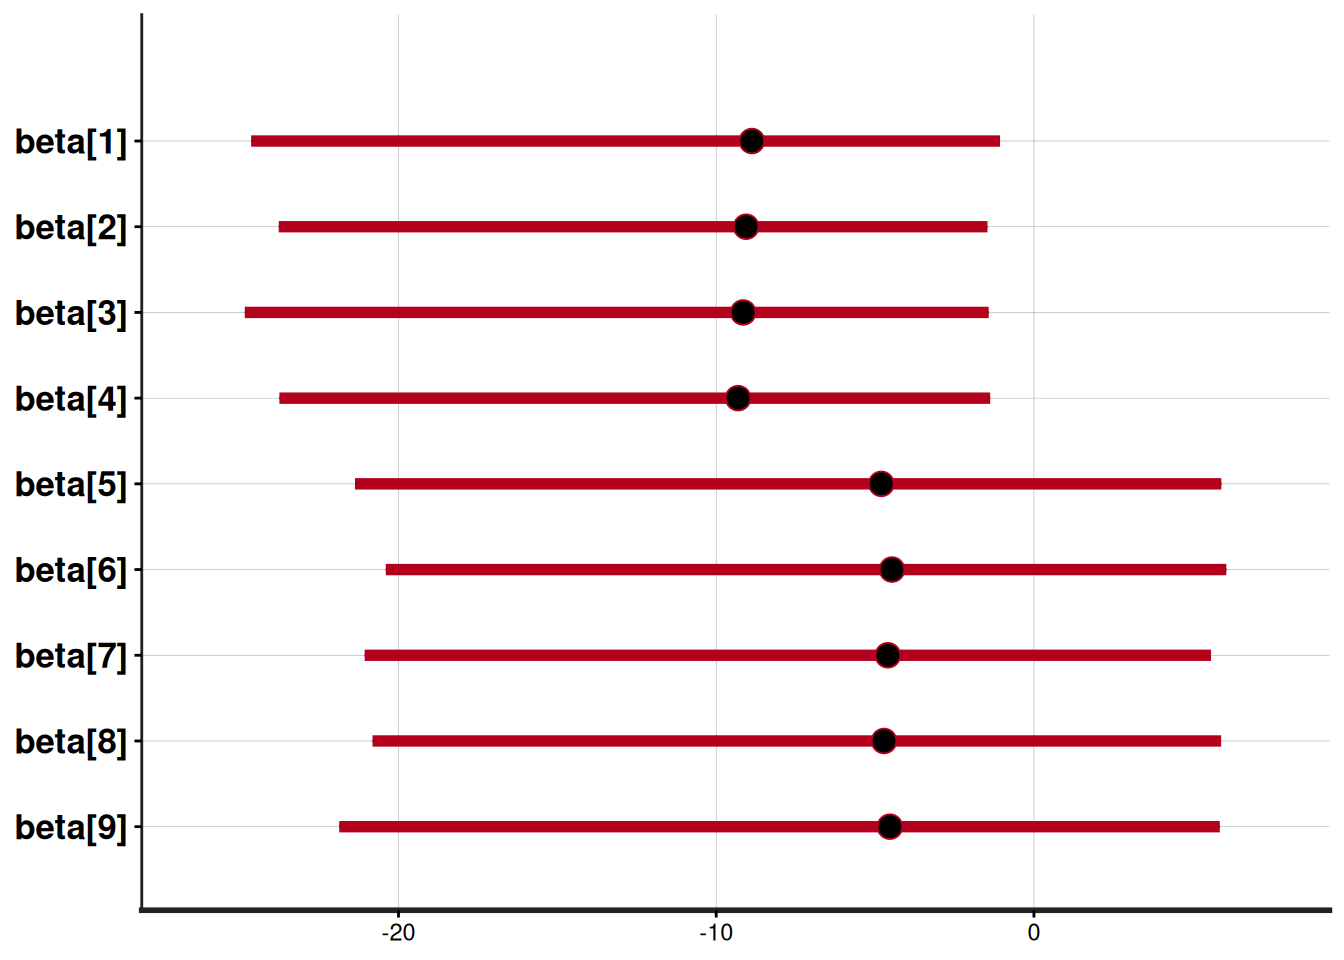
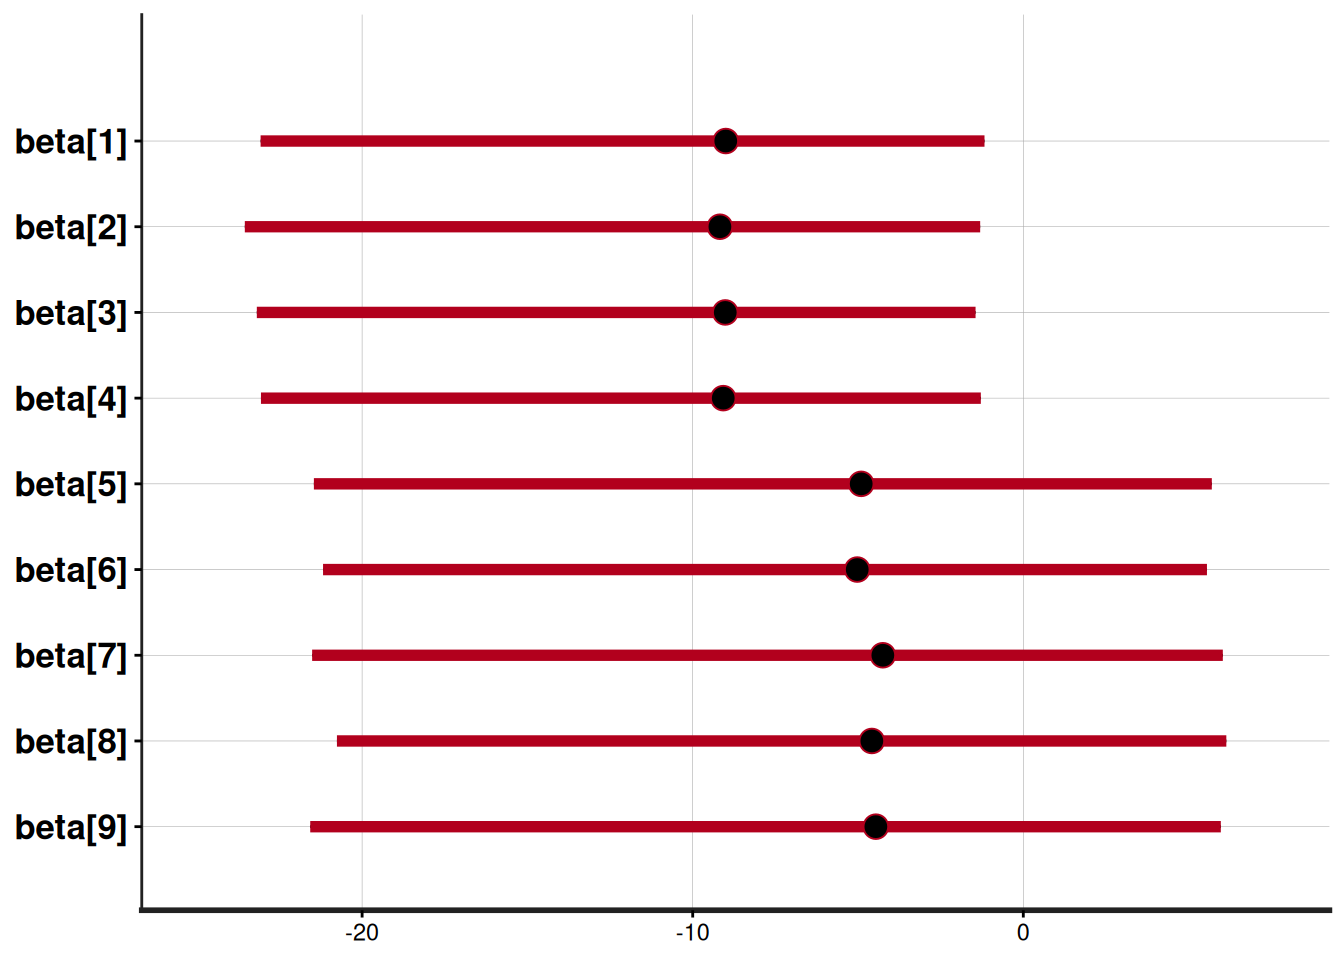
Built site for gh-pages

diff --git a/models.html b/models.html
@@ -254,6 +254,7 @@ window.Quarto = {
 </header>
 
 
+<p>Abaixo veremos alguns modelos analisados sob o paradigma subjetivista. Para economizar tempo, suprimimos análises exploratórias, mas reforçamos que essa etapa é indispensável para qualquer análise estatística.</p>
 <!--
 
 
@@ -495,7 +496,7 @@ fit_GLM = rstan::sampling(mod_GLM, data = data_GLM)
 <p>O modelo é especificado da seguinte forma:</p>
 <p><span class="math display">\[Y_i \sim \text{Poisson}(\mu_i)\]</span></p>
 <p><span class="math display">\[\log(\mu_i) = \log(n_i) + \beta_0 + \beta_{\text{idade}[i]} + \gamma_{\text{cidade}[i]}\]</span></p>
-<p>Para todos os coeficientes do preditor linear foram adotadas as prioris <span class="math inline">\(\beta_i \sim N(0,10)\)</span>.</p>
+<p>Para todos os coeficientes do preditor linear foi adotada a mesma priori vaga: <span class="math inline">\(\beta_i \sim N(0,10)\)</span>.</p>
 <div class="code-copy-outer-scaffold"><div class="sourceCode" id="cb2"><pre class="sourceCode stan code-with-copy"><code class="sourceCode stan"><span id="cb2-1"><a href="#cb2-1" aria-hidden="true" tabindex="-1"></a><span class="kw">data</span> {</span>
 <span id="cb2-2"><a href="#cb2-2" aria-hidden="true" tabindex="-1"></a>  <span class="dt">int</span>&lt;<span class="kw">lower</span>=<span class="dv">1</span>&gt; n;</span>
 <span id="cb2-3"><a href="#cb2-3" aria-hidden="true" tabindex="-1"></a>  <span class="dt">int</span>&lt;<span class="kw">lower</span>=<span class="dv">1</span>&gt; p;</span>
@@ -604,8 +605,8 @@ fit_GLM = rstan::sampling(mod_GLM, data = data_GLM)
 <pre><code>
 SAMPLING FOR MODEL 'GLM2' NOW (CHAIN 1).
 Chain 1: 
-Chain 1: Gradient evaluation took 6e-06 seconds
-Chain 1: 1000 transitions using 10 leapfrog steps per transition would take 0.06 seconds.
+Chain 1: Gradient evaluation took 7e-06 seconds
+Chain 1: 1000 transitions using 10 leapfrog steps per transition would take 0.07 seconds.
 Chain 1: Adjust your expectations accordingly!
 Chain 1: 
 Chain 1: 
@@ -618,12 +619,12 @@ Chain 1: Iteration: 1000 / 2000 [ 50%]  (Warmup)
 Chain 1: Iteration: 1001 / 2000 [ 50%]  (Sampling)</code></pre>
 </div>
 </div>
-<div class="cell">
+<div class="cell" data-layout-align="center">
 <div class="code-copy-outer-scaffold"><div class="sourceCode cell-code" id="cb6"><pre class="sourceCode r code-with-copy"><code class="sourceCode r"><span id="cb6-1"><a href="#cb6-1" aria-hidden="true" tabindex="-1"></a><span class="fu">plot</span>(fit_GLM2, <span class="at">pars =</span> <span class="st">"beta"</span>, <span class="at">ci_level =</span> <span class="fl">0.95</span>)</span></code></pre></div><button title="Copiar para a área de transferência" class="code-copy-button"><i class="bi"></i></button></div>
 <div class="cell-output-display">
-<div>
+<div class="quarto-figure quarto-figure-center">
 <figure class="figure">
-<p><img src="models_files/figure-html/unnamed-chunk-13-1.png" class="img-fluid figure-img" width="672"></p>
+<p><img src="models_files/figure-html/unnamed-chunk-13-1.png" class="img-fluid quarto-figure quarto-figure-center figure-img" style="width:60.0%"></p>
 </figure>
 </div>
 </div>
@@ -781,8 +782,8 @@ Chain 1: Iteration: 1001 / 2000 [ 50%]  (Sampling)</code></pre>
 <pre><code>
 SAMPLING FOR MODEL 'surv_weib' NOW (CHAIN 1).
 Chain 1: 
-Chain 1: Gradient evaluation took 1e-05 seconds
-Chain 1: 1000 transitions using 10 leapfrog steps per transition would take 0.1 seconds.
+Chain 1: Gradient evaluation took 1.1e-05 seconds
+Chain 1: 1000 transitions using 10 leapfrog steps per transition would take 0.11 seconds.
 Chain 1: Adjust your expectations accordingly!
 Chain 1: 
 Chain 1: 
@@ -840,25 +841,25 @@ $lp__
 <span id="cb15-20"><a href="#cb15-20" aria-hidden="true" tabindex="-1"></a><span class="fu">lapply</span>(resumo, head)</span></code></pre></div><button title="Copiar para a área de transferência" class="code-copy-button"><i class="bi"></i></button></div>
 <div class="cell-output cell-output-stdout">
 <pre><code>$alpha
-         media   mediana   hpd_min   hpd_max
-[1,] 0.3106649 0.3062019 0.2136963 0.4119273
+         media  mediana   hpd_min   hpd_max
+[1,] 0.3076674 0.303284 0.2146824 0.4189463
 
 $sigma
-        media  mediana hpd_min  hpd_max
-[1,] 198.6368 193.5185 92.2115 309.7272
+        media mediana  hpd_min  hpd_max
+[1,] 195.5883 189.809 91.63133 305.9038
 
 $S
          media   mediana   hpd_min   hpd_max
 [1,] 1.0000000 1.0000000 1.0000000 1.0000000
-[2,] 0.5791727 0.5756191 0.4716592 0.6881930
-[3,] 0.5092276 0.5055876 0.4108984 0.6045340
-[4,] 0.4656739 0.4626013 0.3774070 0.5533921
-[5,] 0.4338646 0.4310154 0.3624306 0.5237759
-[6,] 0.4088088 0.4059287 0.3434059 0.4926755
+[2,] 0.5757395 0.5729546 0.4756732 0.6937362
+[3,] 0.5062755 0.5028072 0.4109795 0.6031665
+[4,] 0.4630745 0.4595308 0.3771913 0.5498084
+[5,] 0.4315437 0.4278907 0.3551371 0.5127364
+[6,] 0.4067175 0.4033479 0.3356832 0.4818058
 
 $lp__
          media   mediana   hpd_min   hpd_max
-[1,] -465.8197 -465.4981 -467.9344 -464.8247</code></pre>
+[1,] -465.8611 -465.5799 -467.8909 -464.8251</code></pre>
 </div>
 </div>
 <div class="cell">
@@ -1054,7 +1055,7 @@ $lp__
 </div>
 </div>
 <p>Para a verossimilhança, assume-se que cada coluna de <span class="math inline">\(\varepsilon_{i,j} \sim N(0, \sigma^2_i)\)</span>, o que é equivalente a assumir que:</p>
-<p><span class="math display">\[X_{i,j} \sim \text{Normal}\bigr((\alpha\lambda)_{i,j},\ \sigma^2_i\bigr)\]</span>.</p>
+<p><span class="math display">\[X_{i,j} \sim \text{Normal}\bigr((\alpha\lambda)_{i,j},\ \sigma^2_i\bigr).\]</span></p>
 <div class="code-copy-outer-scaffold"><div class="sourceCode" id="cb20"><pre class="sourceCode stan code-with-copy"><code class="sourceCode stan"><span id="cb20-1"><a href="#cb20-1" aria-hidden="true" tabindex="-1"></a><span class="kw">data</span> {</span>
 <span id="cb20-2"><a href="#cb20-2" aria-hidden="true" tabindex="-1"></a>  <span class="dt">int</span>&lt;<span class="kw">lower</span>=<span class="dv">1</span>&gt; n_row;</span>
 <span id="cb20-3"><a href="#cb20-3" aria-hidden="true" tabindex="-1"></a>  <span class="dt">int</span>&lt;<span class="kw">lower</span>=<span class="dv">1</span>&gt; n_col;</span>
@@ -1206,8 +1207,8 @@ $lp__
 <pre><code>
 SAMPLING FOR MODEL 'FA' NOW (CHAIN 1).
 Chain 1: 
-Chain 1: Gradient evaluation took 4.1e-05 seconds
-Chain 1: 1000 transitions using 10 leapfrog steps per transition would take 0.41 seconds.
+Chain 1: Gradient evaluation took 4.8e-05 seconds
+Chain 1: 1000 transitions using 10 leapfrog steps per transition would take 0.48 seconds.
 Chain 1: Adjust your expectations accordingly!
 Chain 1: 
 Chain 1: 
@@ -1221,8 +1222,6 @@ Chain 1: Iteration: 1001 / 2000 [ 50%]  (Sampling)</code></pre>
 </div>
 </div>
 <div class="cell">
-<details class="code-fold">
-<summary>Código</summary>
 <div class="code-copy-outer-scaffold"><div class="sourceCode cell-code" id="cb25"><pre class="sourceCode r code-with-copy"><code class="sourceCode r"><span id="cb25-1"><a href="#cb25-1" aria-hidden="true" tabindex="-1"></a>post <span class="ot">=</span> rstan<span class="sc">::</span><span class="fu">extract</span>(fit_FA, <span class="at">pars =</span> <span class="fu">c</span>(<span class="st">"alpha"</span>, <span class="st">"lambda"</span>, <span class="st">"sigma"</span>))</span>
 <span id="cb25-2"><a href="#cb25-2" aria-hidden="true" tabindex="-1"></a>resumo <span class="ot">=</span> <span class="fu">list</span>()</span>
 <span id="cb25-3"><a href="#cb25-3" aria-hidden="true" tabindex="-1"></a></span>
@@ -1241,9 +1240,7 @@ Chain 1: Iteration: 1001 / 2000 [ 50%]  (Sampling)</code></pre>
 <span id="cb25-16"><a href="#cb25-16" aria-hidden="true" tabindex="-1"></a>  )</span>
 <span id="cb25-17"><a href="#cb25-17" aria-hidden="true" tabindex="-1"></a>}</span>
 <span id="cb25-18"><a href="#cb25-18" aria-hidden="true" tabindex="-1"></a></span>
-<span id="cb25-19"><a href="#cb25-19" aria-hidden="true" tabindex="-1"></a></span>
-<span id="cb25-20"><a href="#cb25-20" aria-hidden="true" tabindex="-1"></a>resumo <span class="ot">=</span> <span class="fu">sapply</span>(resumo, <span class="cf">function</span>(x) { abind<span class="sc">::</span><span class="fu">abind</span>(x, <span class="at">along =</span> <span class="dv">3</span>) })</span></code></pre></div><button title="Copiar para a área de transferência" class="code-copy-button"><i class="bi"></i></button></div>
-</details>
+<span id="cb25-19"><a href="#cb25-19" aria-hidden="true" tabindex="-1"></a>resumo <span class="ot">=</span> <span class="fu">sapply</span>(resumo, <span class="cf">function</span>(x) { abind<span class="sc">::</span><span class="fu">abind</span>(x, <span class="at">along =</span> <span class="dv">3</span>) })</span></code></pre></div><button title="Copiar para a área de transferência" class="code-copy-button"><i class="bi"></i></button></div>
 </div>
 <div class="cell">
 <details class="code-fold">

diff --git a/basics.html b/basics.html
@@ -295,24 +295,23 @@ window.Quarto = {
 </section>
 <section id="bloco-functions" class="level3 unnumbered">
 <h3 class="unnumbered anchored" data-anchor-id="bloco-functions">Bloco functions</h3>
-<p>O bloco functions serve para declarar funções que serão utilizadas ao longo do código Stan. As funções nessa sintaxe seguem a mesma lógica das funções escritas em C++, o que inclui a necessidade de declarar explicitamente o tipo do valor de retorno e o tipo de cada argumento. Assim como em C++, o Stan não suporta funções com número variável de argumentos nem sobrecarga de operadores de forma arbitrária, o que reforça o caráter fortemente tipado da linguagem.</p>
+<p>O bloco <code>functions</code> serve para declarar funções que serão utilizadas ao longo do código Stan. As funções nessa sintaxe seguem a mesma lógica das funções escritas em C++, o que inclui a necessidade de declarar explicitamente o tipo do valor de retorno e o tipo de cada argumento.</p>
 </section>
 </section>
 <section id="argumentos-importantes" class="level2" data-number="2.3">
 <h2 data-number="2.3" class="anchored" data-anchor-id="argumentos-importantes"><span class="header-section-number">2.3</span> Argumentos importantes</h2>
-<p>O help pode ser acessado via <code>?rstan::sampling</code> ou <code>?rstan::stan</code></p>
+<p>O help pode ser acessado via <code>?rstan::sampling</code> ou <code>?rstan::stan</code>.</p>
 <ul>
 <li><code>chains</code>: o número de cadeias que se deseja rodar</li>
-<li><code>init</code>: aqui ficam armazenados os valores do chute inicial das cadeias. Esse argumento deve ser obrigatoriamente uma lista de listas em que, no primeiro nível, fica a cadeia e, no segundo nível, uma lista nomeada com os parâmetros especificados no <code>.stan</code> e cujos valores são o chute inicial da cadeia. Note que deve sempre valer <code>length(init) == chains</code>. No exemplo abaixo, o modelo tem dois parâmetros (<span class="math inline">\(\alpha\)</span> e <span class="math inline">\(\beta\)</span>) e na primeira cadeia o chute inicial é <span class="math inline">\(\alpha_0 = 2, \beta_0=3\)</span> enquanto na segunda cadeia é <span class="math inline">\(\alpha_0 = -1, \beta_0=0\)</span>.</li>
+<li><code>init</code>: aqui ficam armazenados os valores do chute inicial das cadeias. Esse argumento deve ser obrigatoriamente uma lista de listas em que, no primeiro nível, fica a cadeia e, no segundo nível, uma lista nomeada com os parâmetros especificados no <code>.stan</code> e cujos valores são o chute inicial da cadeia. Note que deve sempre valer <code>length(init) == chains</code>. No exemplo abaixo, o modelo tem dois parâmetros (<span class="math inline">\(\alpha\)</span> e <span class="math inline">\(\beta\)</span>) e na primeira cadeia o chute inicial é <span class="math inline">\(\alpha_0 = 2, \beta_0=3\)</span>; na segunda cadeia é <span class="math inline">\(\alpha_0 = -1, \beta_0\)</span> é escolhido pelo STAN; na terceira cadeia <span class="math inline">\(\beta_0=100\)</span> e <span class="math inline">\(\alpha\)</span> é escolhido pelo STAN, pois não foi especificado.</li>
 </ul>
 <div class="cell">
 <div class="code-copy-outer-scaffold"><div class="sourceCode cell-code" id="cb1"><pre class="sourceCode r code-with-copy"><code class="sourceCode r"><span id="cb1-1"><a href="#cb1-1" aria-hidden="true" tabindex="-1"></a>init <span class="ot">=</span></span>
 <span id="cb1-2"><a href="#cb1-2" aria-hidden="true" tabindex="-1"></a>  <span class="fu">list</span>(</span>
 <span id="cb1-3"><a href="#cb1-3" aria-hidden="true" tabindex="-1"></a>    <span class="fu">list</span>(<span class="at">alpha =</span> <span class="dv">2</span>, <span class="at">beta =</span> <span class="dv">3</span>),</span>
-<span id="cb1-4"><a href="#cb1-4" aria-hidden="true" tabindex="-1"></a>    <span class="fu">list</span>(<span class="at">alpha =</span> <span class="sc">-</span><span class="dv">1</span>, <span class="at">beta =</span> <span class="dv">0</span>),</span>
-<span id="cb1-5"><a href="#cb1-5" aria-hidden="true" tabindex="-1"></a>    <span class="fu">list</span>(<span class="st">"random"</span>),</span>
-<span id="cb1-6"><a href="#cb1-6" aria-hidden="true" tabindex="-1"></a>    <span class="fu">list</span>(<span class="dv">0</span>)</span>
-<span id="cb1-7"><a href="#cb1-7" aria-hidden="true" tabindex="-1"></a>  )</span></code></pre></div><button title="Copiar para a área de transferência" class="code-copy-button"><i class="bi"></i></button></div>
+<span id="cb1-4"><a href="#cb1-4" aria-hidden="true" tabindex="-1"></a>    <span class="fu">list</span>(<span class="at">alpha =</span> <span class="sc">-</span><span class="dv">1</span>, <span class="at">beta =</span> <span class="st">"random"</span>),</span>
+<span id="cb1-5"><a href="#cb1-5" aria-hidden="true" tabindex="-1"></a>    <span class="fu">list</span>(<span class="at">beta =</span> <span class="dv">100</span>)</span>
+<span id="cb1-6"><a href="#cb1-6" aria-hidden="true" tabindex="-1"></a>  )</span></code></pre></div><button title="Copiar para a área de transferência" class="code-copy-button"><i class="bi"></i></button></div>
 </div>
 <div class="callout callout-style-default callout-tip callout-titled">
 <div class="callout-header d-flex align-content-center collapsed" data-bs-toggle="collapse" data-bs-target=".callout-1-contents" aria-controls="callout-1" aria-expanded="false" aria-label="Toggle callout">

diff --git a/pred.html b/pred.html
@@ -224,12 +224,12 @@ div.csl-indent {
 </header>
 
 
-<section id="predições-no-stan" class="level2" data-number="4.1">
-<h2 data-number="4.1" class="anchored" data-anchor-id="predições-no-stan"><span class="header-section-number">4.1</span> Predições no STAN</h2>
 <blockquote class="blockquote">
 <p>Bayesian models are generative, meaning they can be used to simulate observations just as well as they can be used to estimate parameters. One benefit of this fact is that a statistical model can be developed by thinking hard about how the data might have arisen.”</p>
 <p>— Richard McElreath, <em>Statistical Rethinking: A Bayesian Course with Examples in R and Stan</em> (2020)</p>
 </blockquote>
+<section id="predições-no-stan" class="level2" data-number="4.1">
+<h2 data-number="4.1" class="anchored" data-anchor-id="predições-no-stan"><span class="header-section-number">4.1</span> Predições no STAN</h2>
 <p>Predições como parâmetro vs.&nbsp;generated quantites</p>
 </section>
 <section id="glm" class="level2" data-number="4.2">
@@ -326,8 +326,8 @@ div.csl-indent {
 <pre><code>
 SAMPLING FOR MODEL 'GLM_pred' NOW (CHAIN 1).
 Chain 1: 
-Chain 1: Gradient evaluation took 0.000115 seconds
-Chain 1: 1000 transitions using 10 leapfrog steps per transition would take 1.15 seconds.
+Chain 1: Gradient evaluation took 0.000121 seconds
+Chain 1: 1000 transitions using 10 leapfrog steps per transition would take 1.21 seconds.
 Chain 1: Adjust your expectations accordingly!
 Chain 1: 
 Chain 1: 
@@ -402,7 +402,7 @@ Chain 1: Iteration: 1001 / 2000 [ 50%]  (Sampling)</code></pre>
 <span id="cb10-22"><a href="#cb10-22" aria-hidden="true" tabindex="-1"></a>}</span></code></pre></div><button title="Copiar para a área de transferência" class="code-copy-button"><i class="bi"></i></button></div>
 <div class="cell">
 <details class="code-fold">
-<summary>Código</summary>
+<summary>STAN model</summary>
 <div class="code-copy-outer-scaffold"><div class="sourceCode cell-code" id="cb11"><pre class="sourceCode r code-with-copy"><code class="sourceCode r"><span id="cb11-1"><a href="#cb11-1" aria-hidden="true" tabindex="-1"></a>mod_FA_pred <span class="ot">=</span> <span class="fu">stan_model</span>(<span class="at">model_name =</span> <span class="st">"FA_pred"</span>, <span class="at">model_code =</span> <span class="st">"</span></span>
 <span id="cb11-2"><a href="#cb11-2" aria-hidden="true" tabindex="-1"></a><span class="st">data {</span></span>
 <span id="cb11-3"><a href="#cb11-3" aria-hidden="true" tabindex="-1"></a><span class="st">  int&lt;lower=1&gt; n_row;</span></span>
@@ -470,7 +470,7 @@ Chain 1: Iteration: 1001 / 2000 [ 50%]  (Sampling)</code></pre>
 </div>
 <div class="cell">
 <details class="code-fold">
-<summary>Código</summary>
+<summary>Setup para bloco data</summary>
 <div class="code-copy-outer-scaffold"><div class="sourceCode cell-code" id="cb12"><pre class="sourceCode r code-with-copy"><code class="sourceCode r"><span id="cb12-1"><a href="#cb12-1" aria-hidden="true" tabindex="-1"></a>group.sizes <span class="ot">=</span></span>
 <span id="cb12-2"><a href="#cb12-2" aria-hidden="true" tabindex="-1"></a>  temperatura <span class="sc">|&gt;</span></span>
 <span id="cb12-3"><a href="#cb12-3" aria-hidden="true" tabindex="-1"></a>  <span class="fu">pull</span>(estado) <span class="sc">|&gt;</span></span>
@@ -529,8 +529,8 @@ Chain 1: Iteration: 1001 / 2000 [ 50%]  (Sampling)</code></pre>
 <pre><code>
 SAMPLING FOR MODEL 'FA_pred' NOW (CHAIN 1).
 Chain 1: 
-Chain 1: Gradient evaluation took 5.2e-05 seconds
-Chain 1: 1000 transitions using 10 leapfrog steps per transition would take 0.52 seconds.
+Chain 1: Gradient evaluation took 5.4e-05 seconds
+Chain 1: 1000 transitions using 10 leapfrog steps per transition would take 0.54 seconds.
 Chain 1: Adjust your expectations accordingly!
 Chain 1: 
 Chain 1: 

diff --git a/index.html b/index.html
@@ -242,7 +242,7 @@ div.csl-indent {
 </div>
 <section id="sobre" class="level2 unnumbered">
 <h2 class="unnumbered anchored" data-anchor-id="sobre">Sobre</h2>
-<p>Este é o <a href="https://github.com/carlosdemoura/2026_aula_stan_dani">material auxiliar</a> da apresentação sobre STAN para a turma de Inferência Bayesiana (DCC/DEST-UFMG, 2026/1). Feito em <a href="https://quarto.org/">Quarto</a> e R!</p>
+<p>Este é o <a href="https://github.com/carlosdemoura/2026_aula_stan_dani">material auxiliar</a> da apresentação sobre STAN para a turma de Inferência Bayesiana (DCC/DEST-UFMG, 2026/1). Orgulhosamente feito em <a href="https://quarto.org/">Quarto</a> e R!</p>
 </section>
 <section id="setup-do-ambiente" class="level2 unnumbered">
 <h2 class="unnumbered anchored" data-anchor-id="setup-do-ambiente">Setup do ambiente</h2>
